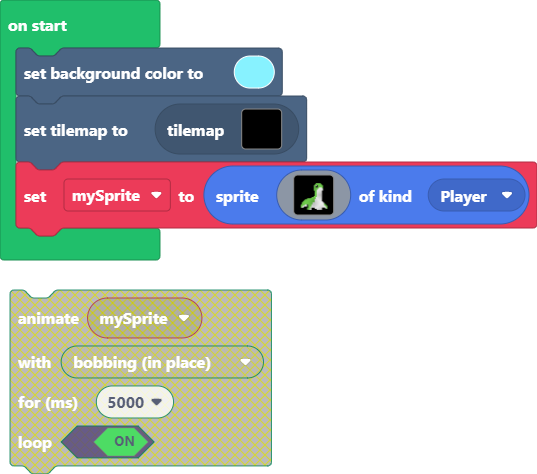
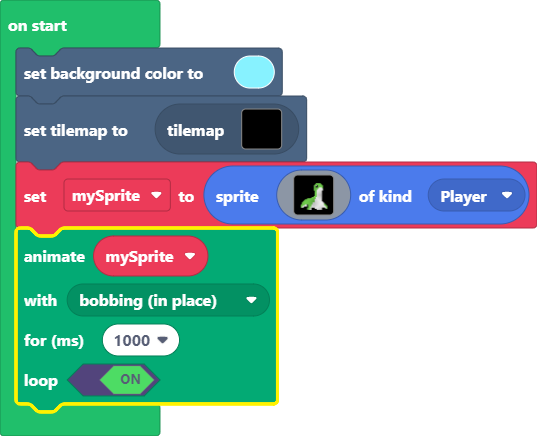
Update main.blocks, main.ts

diff --git a/main.ts b/main.ts
@@ -32,3 +32,9 @@ let mySprite = sprites.create(img`
     ........f7711f.fff11111f.ffff.
     ........ffffff...fffffff......
     `, SpriteKind.Player)
+animation.runMovementAnimation(
+mySprite,
+animation.animationPresets(animation.bobbing),
+1000,
+true
+)
